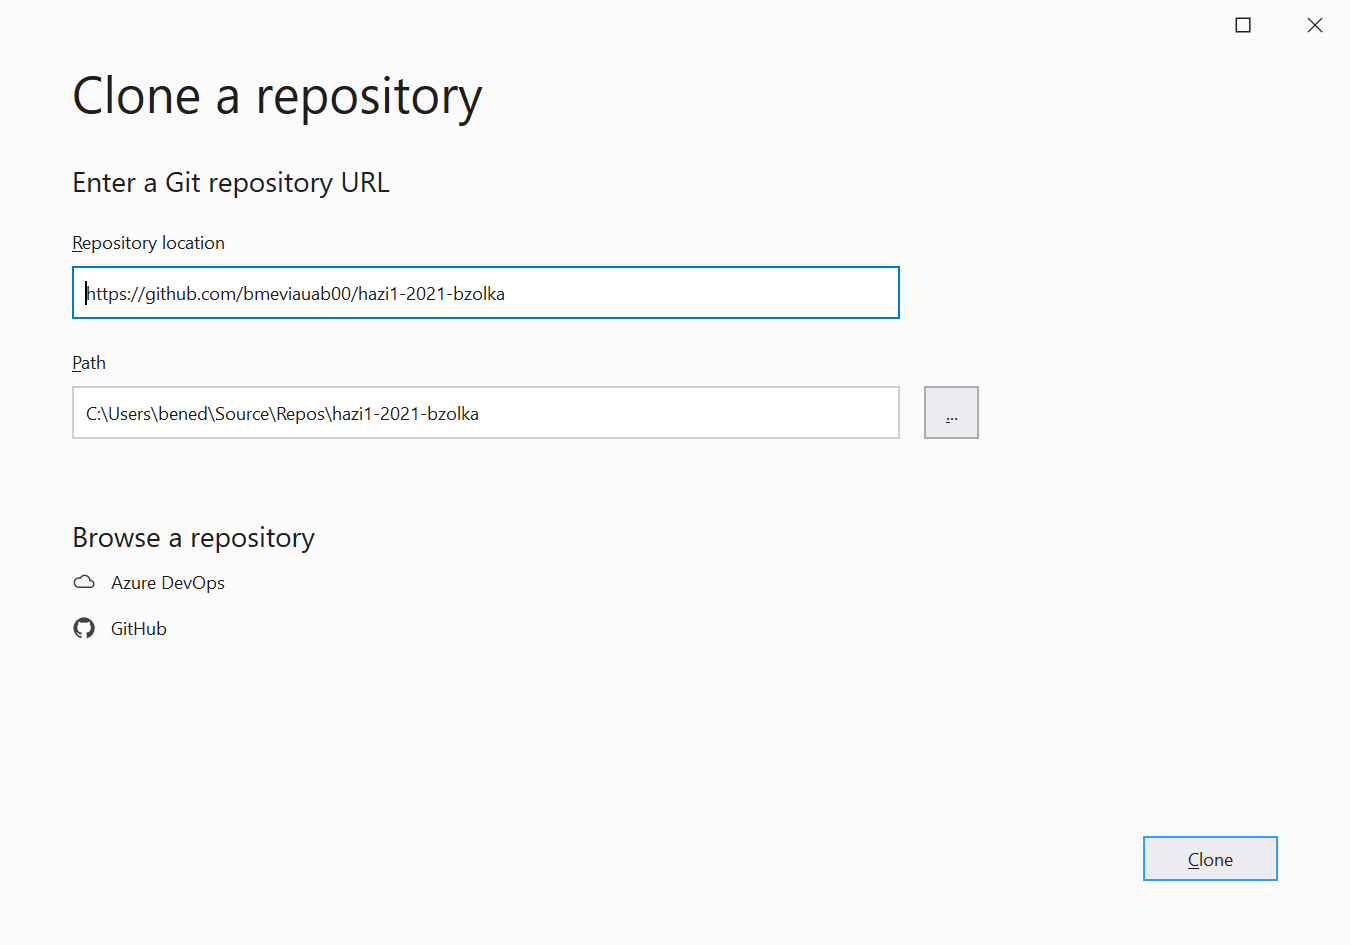
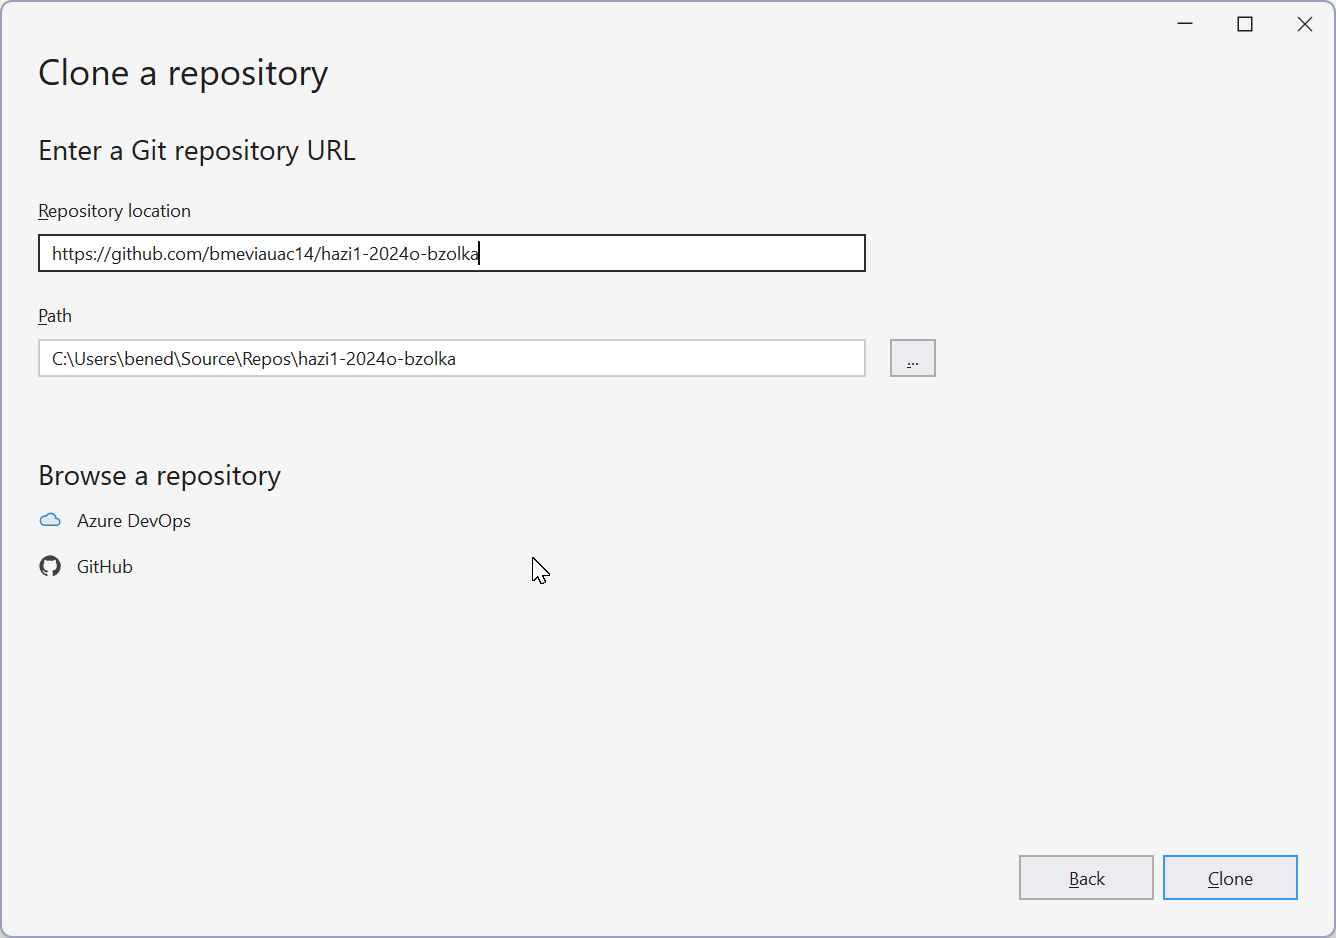
Git használat leírás frissítés

diff --git a/docs/hazi/hf-folyamat/index.md b/docs/hazi/hf-folyamat/index.md
@@ -32,10 +32,10 @@ Az alábbiakban ezekre is kitérünk.
 
 Két lehetőséget nézünk meg alább:
 
-- Klónozás a GitHub webes felületéről indulva Visual Studioban
+- Klónozás Visual Studioban
 - Klónozás parancssorból
 
-### Clone a GitHub webes felületéről indulva Visual Studio-ban
+### Klónozás Visual Studio-ban
 
 Egy (házi feladathoz tartozó) repository klónozásra számos mód van, egy lehetőség a következő. Nyissuk meg az elkészült repository online oldalát, melyre több módon eljuthatunk. Lehetőségek pl.:
 
@@ -47,25 +47,21 @@ Az oldal képe nagyjából megfelel a következőnek (az mindenképpen különbs
 
 ![GitHub repo oldal](images/github-repo-page.png)
 
-Kattintsunk a zöld színű *Code* gombon, majd a lenyíló menüben az *"Open in Visual Studio"* linkre:
-
-![GitHub repo oldal - Code gomb](images/github-code-button-open.png)
-
-A böngészőnk ekkor jó eséllyel feldob egy ablakot (pl. a Chrome/Edge esetében a címsor alatt) melyben egy külön gombkattintással (*Open…*) tudjuk indítani a Visual Studio-t. A felkínált lehetőségnek lehet, kissé fura a neve, ha *"Microsoft Visual Studio Web Protocol Handler Selector"* néven hivatkozik rá, válasszuk/engedélyezzük ki bátran. Illetve, itt célszerű az "Always allow github.com to open links ..." vagy hasonló szövegű jelölőnégyzetet is pipálni.
-Ha minden jól megy, a Visual Studio elindul, és indulás után feldob egy ablakot, melyben a "Repository location" ki is van töltve a repository-nk URL-jével. A Path alatt adjuk meg, hogy hova szeretnénk a háttértárunkon clone-ozni, majd kattintsunk a *Clone* gombra:
+Indítsuk el a Visual Studiot, és a megjelenő ablak jobb oldalán kattintsunk a "Clone a repository" gombon. Ekkor a következő ablak jelenik meg:
 
 ![Repository clone Visual Studionban](images/vs-clone-a-repository.png)
 
-!!!note "Alternatív klónozási lehetőség Visual Studioban"
-    Ha nem működik a böngészőablakban az *"Open in Visual Studio"* vagy *"Microsoft Visual Studio Web Protocol Handler Selector"* hivatkozás, akkor indulhatunk egyből a Visual Studio-ból is. Csak indítsuk el a Visual Studio-t, és a startup ablakban válasszuk jobboldalt a *"Clone Repository"* gombot (vagy a startup ablakot átugorva válasszuk ki a *"Git/Clone Repository menüt"* a VS főablakában), melynek hatására a fenti ablak jelenik meg, a Repository URL-be pedig írjuk be a repónk URL-jét. A *Clone*-ra kattintva néhány másodperc alatt a repository a megadott célmappába klónozódik.
+Itt a "Repository location" mezőbe másoljuk be böngészőablak címsorából a repository-nk url-jét. Az útvonal (Path) a létrehozandó projekt útvonala a fájlrendszerünkben, tetszés szerint megadható.
 
-A klónozást követően pl. Windows Explorer-ben meg tudjuk tekinteni a létrehozott mappákat és fájlokat:
+A *Clone*-ra kattintva néhány másodperc alatt a repository a megadott célmappába klónozódik.
 
-![Git repository a fájlrendszerben](images/git-folder-in-explorer.png)
+A klónozást követően pl. a Windows Fájlkezelőben (File Explorer)-ben meg tudjuk tekinteni a létrehozott mappákat és fájlokat:
 
-Ebből jól látható, hogy egy Git repository nem más, mint mappák és fájlok gyűjteménye, valamint egy a gyökérben található .git mappa, mely (némi egyszerűsítéssel élve) az egyes fájlok verziótörténetét tartalmazza. A munka megkezdéséhez csak meg kell nyissuk az adott házi feladathoz tartozó .sln kiterjesztésű solution fájlt (pl. duplakatt Windows Explorerben).
+![Repo a fájlrendszerben](images/git-folder-in-explorer.png)
 
-### Clone parancssorból
+Ebből jól látható, hogy egy Git repository nem más, mint mappák és fájlok gyűjteménye, valamint egy a gyökérben található .git mappa, mely - némi egyszerűsítéssel élve - az egyes fájlok verziótörténetét tartalmazza (a .git mappa "rejtett" tulajdonságú, csak akkor látható, ha a fájlkezelőben a rejtett fájlok megjelenítését is engedélyezzük). A munka megkezdéséhez csak meg kell nyissuk az adott házi feladathoz tartozó .sln kiterjesztésű solution fájlt (pl. duplakatt a Fájlkezelőben).
+
+### Klónozás parancssorból
 
 Alternatív lehetőség a parancssor használata. Parancssorban navigáljunk abba a mappába, ahová a forráskódot ki szeretnénk clone-ozni, és itt adjuk ki a következő parancsot:
 `git clone <repo url>`

diff --git a/docs/hazi/git-github-github-classroom/index.md b/docs/hazi/git-github-github-classroom/index.md
@@ -44,3 +44,9 @@ A két megközelítést a mindennapokban kombináltan szoktuk használni. Egy re
 ## Git telepítése
 
 Amennyiben a számítógépünkre nincs még a Git telepítve, és szeretnénk azt parancssorból is használni, akkor innen telepíthető Windows operációs rendszerre: https://git-scm.com/download/win. Egyéb operációs rendszerek esetén pedig innen érdemes indulni: https://git-scm.com/downloads.
+
+!!! warning "Git Credential Manager telepítése"
+    A GitHub már egy ideje nem támogatja az egyszerű felhasználónév/jelszó alapú hitelesítést. Ha git parancssorban a login során "Support for password authentication was removed." hibaüzenetet kapunk, ez az oka. Két megoldás is létezik a probléma megoldására: 
+    
+    * A legegyszerűbb megoldás a "Git Credential Manager" telepítése. Ezt fel lehet telepíten a git telepítése során (csak be kell pipálni a telepítőben), de külön is telepíthető [innen](https://github.com/git-ecosystem/git-credential-manager/releases). A telepítést követően nincs teendőnk vele, a git automatikusan használni fogja, és egy böngésző alapú (ún. OAuth) hitelesítési folyamaton vezeti végig a felhasználót, ill. plusz kényelmi funkcióként meg is jegyzi a hitelesítési adatokat.
+    * A másik megoldás a PAT (Personal Access Token) használata, erről pl. [itt](https://stackoverflow.com/questions/68775869/message-support-for-password-authentication-was-removed) lehet olvasni.
